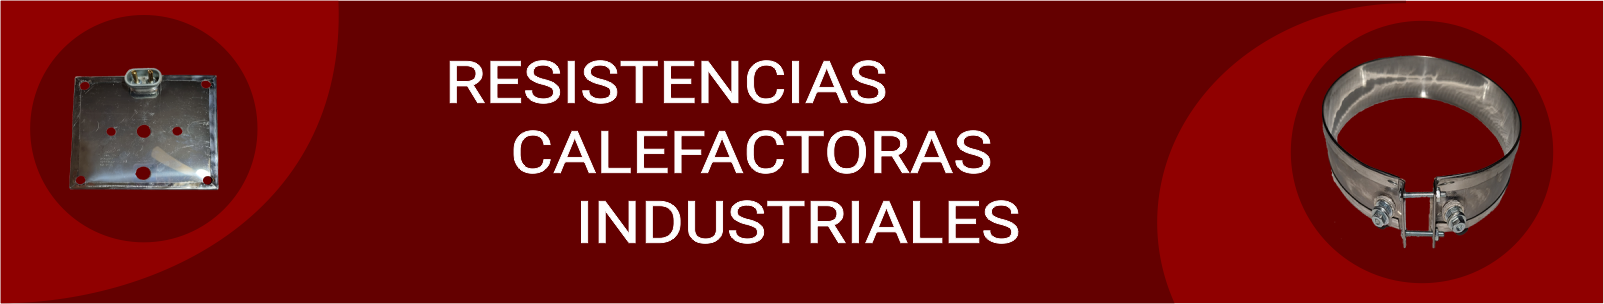
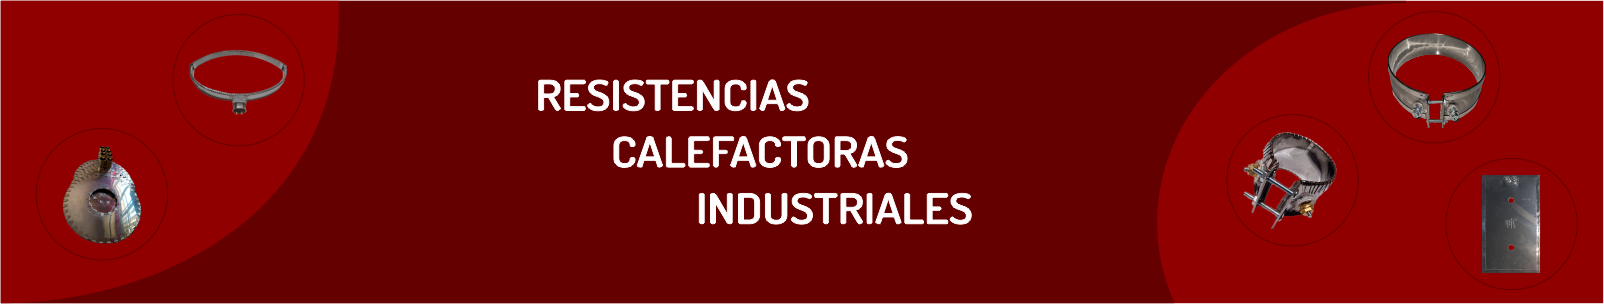
Archivos redundantes eliminados

diff --git a/src/views/index.html b/src/views/index.html
@@ -33,7 +33,7 @@
 
     <main>
         <div class = "sliderImagenes">
-            <img class = "imagenSlider" src="/images/BannerV4.png" alt="">
+            <img class = "imagenSlider" src="/images/Banner.png" alt="">
             <a class = "flechaIzquierda" href=""> <i class="imagenFlecha fa-solid fa-angle-left"> </i></a>
             <a class = "flechaDerecha" href=""> <i class="imagenFlecha fa-solid fa-angle-right"> </i></a>
         </div>
